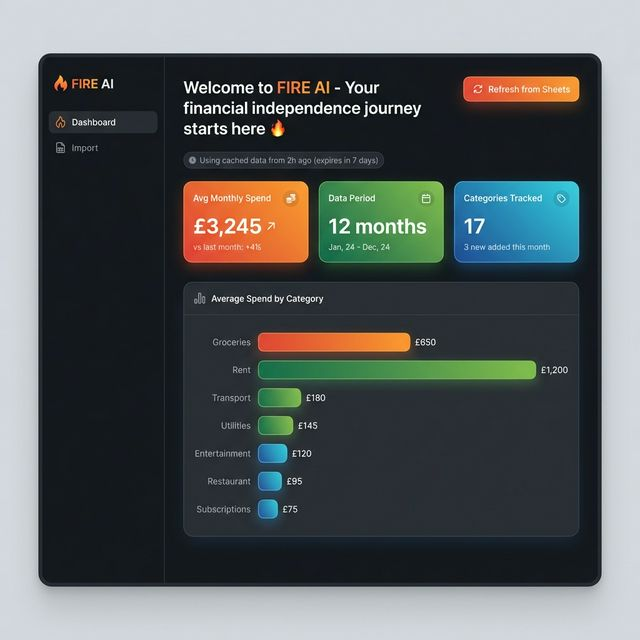
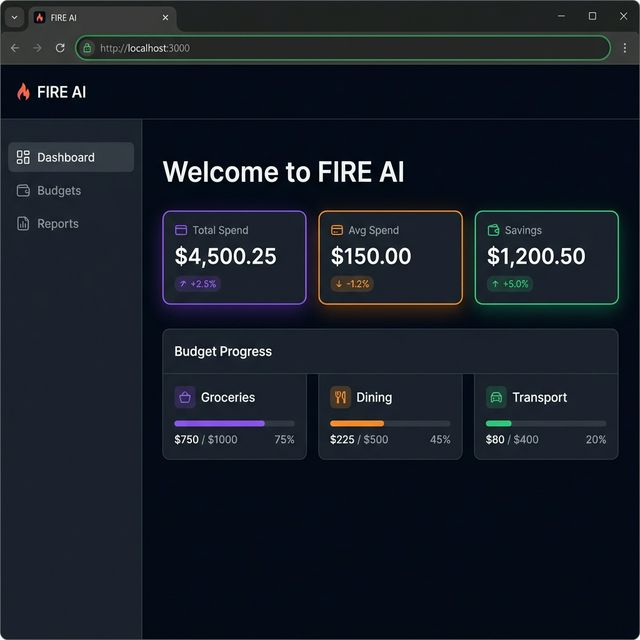
docs: Update README with new web app features and screenshot
Highlights budgeting, auto-date, and caching features. Adds new dark mode dashboard preview.

diff --git a/README.md b/README.md
@@ -7,10 +7,11 @@ A personal finance tracking application that categorizes transactions from CSV e
 ## ✨ Features
 
 ### Web App
-- **Dashboard**: Visualize monthly spending with interactive charts
-- **Local Caching**: Data cached in browser localStorage (7-day expiry) — no auto-fetches
-- **Import Transactions**: Process CSV files with shadow mode preview or live sync
-- **Google Sheets Sync**: Push categorized data to your tracking spreadsheet
+- **Dashboard**: Visualize monthly spending with interactive charts, YoY comparisons, and 12-month trends.
+- **Budget Management**: Set and track monthly budgets per category directly in the UI.
+- **Local Caching**: Data cached in browser localStorage for instant load times (7-day expiry).
+- **Smart Import**: Auto-date detection for next month's data.
+- **Google Sheets Sync**: Two-way sync for transactions and budgets.
 
 ### CLI
 - **Smart Categorization**: Auto-categorize transactions using custom rules
